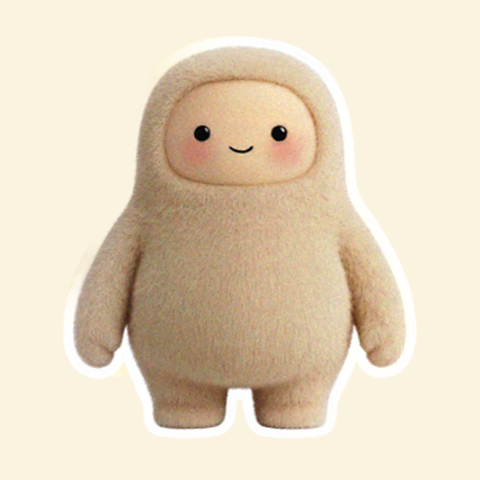
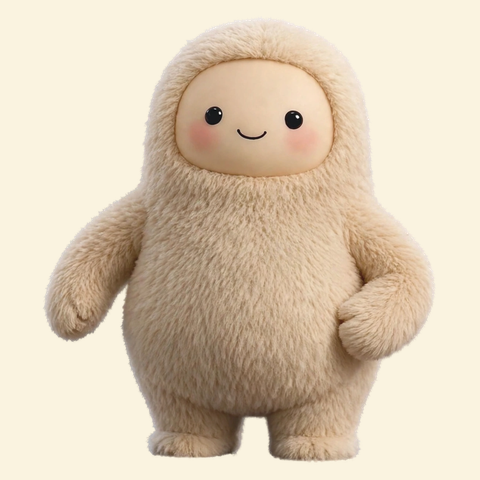
交接文件 HANDOFF.md; 頭像改用無白邊去背母檔 (老吳指示)

diff --git a/HANDOFF.md b/HANDOFF.md
@@ -1,0 +1,74 @@
+# AI寶 專案交接文件（HANDOFF）
+
+最後更新：2026-10-16 深夜（Muse 撰寫）
+讀者：未來接手本專案的 agent 或工程師。本文件自給自足，先讀完再動手。
+
+## 1. 這是什麼
+
+- 專案：把開源專案 LINE.js 改造成華葳集成公司 LINE 群組的「電腦學習小幫手」，名字叫「AI寶」。
+- 委託人：吳治綱（老吳），GitHub 帳號 wuzkkavin。所有重大決策（對外發布、用真帳號、動他的雲端檔案）都要先經他同意。
+- 上游：JS-PACKAGE/LINE.js（作者 YueyuHoshizora，益師傅的學生），Apache License 2.0；核心函式庫 @evex/linejs 釘版 3.4.2，不得擅自升版。
+- Fork：wuzkkavin/LINE.js。main 分支＝上游鏡像（僅多一個 .github/workflows/build-windows.yml，原因見第 6 節）；開發分支＝ai-bao。
+- 本機工作路徑：~/workspace/linejs-helper（origin＝fork，upstream＝原作者 repo）。
+- 規格正本：~/workspace/linejs-test/規格書-v2.md（v2.1，共 13 節）；測試報告：同目錄 第一階段假資料測試報告.md、第二階段假資料體驗版報告.md。
+- 文件備份：Google Drive「Muse 專區／AI寶 LINE 小幫手」資料夾（folder id 1K4DHnEKEUgpDfUGRwVftaZmMpvMDxk9-）。
+
+## 2. 架構定案（不要推翻，除非老吳同意）
+
+- 新功能全部做成 Repo 內獨立的 helper/ 伴隨模組，透過上游既有的機器人接口 /api/ws（WebSocket）連接 LINE.js 核心（127.0.0.1:3789）。
+- 上游檔案零修改（git status 只應出現 helper/、pack/ 與本文件等新增物）。理由：上游持續更新，改上游會讓同步撞車。掛鉤紀錄在 helper/FORK.md（目前為零掛鉤）。
+- 打包在 pack/：Node SEA 單一 exe，啟動器（pack/launcher）以多工模式自我分身成監督者／核心／helper／cli 角色。
+- 資料落點（Windows）：%LOCALAPPDATA%\HwLineHelper（config、session、log、知識庫索引），絕不寫 exe 旁邊。
+
+## 3. 功能規格重點（細節以規格書 v2.1 為準）
+
+- 登入：專用次要 LINE 帳號 QR＋PIN（裝置 ANDROIDSECONDARY）。嚴禁用老吳主帳號。機器人以真人帳號身分在群組回答，群組須先在核心 config.yaml 的 api.chats 白名單內，機器人 Token 用核心 CLI 產生（npm run cli -- token，或 exe 的 --role cli）。
+- 觸發：不用 @ 或 /。設定裡的機器人名字（主名＋別名）出現在訊息任何位置（句首／句中／句尾）＋問句或請求意圖才回（預設「標準」模式；另有寬鬆／嚴格）。名字是設定值、出廠預設「AI寶」，絕不可寫死在程式裡（改名測試必須通過）。同人冷卻 20 秒、每日回答上限可調。
+- AI 供應商：OpenAI／Groq／MiniMax 三家，皆 OpenAI 相容格式共用一套客戶端；設定頁各填 Key＋模型＋測試連線，單選使用中一家。Key 存 Windows 認證管理員（DPAPI 後端在 helper/src/secrets.mjs），設定 JSON 與 log 絕不可出現 Key 明文；API 回應只回末 4 碼。
+- 知識庫：設定頁指定資料夾（內容由老吳保證已脫敏），唯讀；第一版支援 .txt/.md/.csv，切段約 800 字＋BM25 索引（存資料夾外）；公司類問題先查知識庫、答案註明來源檔名，查不到要明說不編造。第二版才做 .pdf/.docx/.xlsx。
+- 防詐騙：本機規則預篩（網址、短網址、高風險詞）命中才送 AI 判讀機率與手法，門檻預設 0.8，超過以 replyTo 在群組警告（文案含「僅供參考」）；支援手動貼訊息問「這是詐騙嗎」；每分鐘上限 10；TypeSafe Jev 僅保留欄位、預設停用。只分析別人的訊息。
+- Log：放資料夾（Windows 為 AppData 下 logs），每日一檔保留 14 天；不記 Key/Token/QR/PIN，不記訊息全文（除錯模式除外）；控制台可下載診斷包 ZIP。
+- 介面：控制台在 127.0.0.1:3790，繁體中文（台灣用語）、粉圓體、深綠＋LINE 綠卡片式；頁尾與「關於」卡必須有版權宣告，原文一字不改：「©Copyright 2026 By 吳治綱 繁體中文化」，同處並列上游出處（JS-PACKAGE/LINE.js、Apache License 2.0）。驗收截圖必須拍到宣告。
+- 成品平台：只出 Windows 版（老吳定版規則）。
+
+## 4. 素材（helper/assets/）
+
+- ai-bao-icon.png：綠色對話泡泡，老吳提供。用途：App/exe 圖示、控制台 Logo、favicon。
+- ai-bao-cutout.png：現行透明母檔（無白邊）。來源：AI 乾淨版（ai-bao-avatar-ai.png，1600×1600）以 rembg（isnet-general-use）去背，1075×1222。
+- ai-bao-avatar.png：現行頭像 480×480（去背母檔＋米白底合成）。控制台狀態卡與日後 LINE 大頭貼用。
+- 備份（不要打包、不要用）：ai-bao-cutout-bordered.png（舊帶白邊版，左邊白邊有缺損，勿用）、ai-bao-cutout-original.png（原照片無白邊擷取版，僅 255×295，解析度低）、ai-bao-avatar-photo.png、ai-bao-avatar-original.png。
+- 原始素材出處：老吳提供的四角色合照與角色原圖在 ~/workspace/user/media_library/；弄正後的原圖在 ~/workspace/linejs-test/ai-bao-original-straightened.png（原圖斜 9.2 度，以眼睛連線量測校正）。
+
+## 5. 目前進度與驗證證據（2026-10-16）
+
+- 階段一（假資料摸底核心）：完成。上游 typecheck 通過、自動測試 207/207。
+- 階段二（helper 體驗版）：完成。helper 測試 13/13（含端到端：FakeProvider 真核心＋本機 AI stub；句尾觸發、改名、知識庫附來源、防詐騙警告、log 無 Key 皆有斷言）。控制台截圖在 helper/screenshots/。
+- 階段三（打包）：VM 內完成。pack 測試 28/28；產出 pack/out/AI寶.exe（103,270,400 bytes，PE32+ x64，基底 Node v24.20.0，icon 與版本資訊已寫入，LegalCopyright 為版權字串，證據 pack/build/build-report.json）。注意：pack/out 與 pack/build、pack/.cache 已被 .gitignore 排除，不進 Git。
+- 雲端 Windows 驗證：2026-10-16 已由老吳核准並啟動，run id 38920095834（workflow build-windows，ref ai-bao）。接手者先用 gh run view 38920095834 --repo wuzkkavin/LINE.js 查結果與下載 artifact（exe、Windows 截圖、打包報告），再判讀：兩個服務 HTTP 200、控制台截圖正常、DPAPI 與認證管理員在 Windows 的實際行為（log 佐證）。若失敗，看該 run 的 job log 修管線，不要宣稱通過。
+- 尚未 commit 到 main 的內容：ai-bao 分支 commit c04adaa（含 helper/、pack/、workflow 副本）。main 只有 workflow 檔 commit 633ecd1（workflow_dispatch 必須存在於預設分支才可被呼叫，這是 GitHub 的限制）。
+
+## 6. 待辦（依序）
+
+1. 判讀雲端驗證 run 38920095834 結果；若全過，下載該次 exe artifact 作為第一個 Windows 實測版，存 Drive「AI寶 LINE 小幫手」資料夾，並向老吳回報（含 Windows 截圖）。
+2. 每次發布/驗證完成後，刪除該次 Actions artifact（老吳既定流程，避免儲存額度累積；Release 與 Drive 備份不受影響）。
+3. 階段四（真帳號實測）：等老吳提供次要帳號並在場掃 QR。先進測試小群驗收（觸發、知識庫、防詐騙、log），老吳點頭才進正式公司群。相關流程：exe 啟動後在控制台操作登入，Token 以 --role cli 產生並填入 helper 設定。
+4. 上游同步機制：老吳要求「上游更新要跟著更新」，但自動同步的授權範圍與檢查頻率尚未拍板（比照 Craft 家族的每日追蹤＋自動更新模式是候選）。未經老吳確認前，只做手動 git fetch upstream 比對並回報，不要自動合併發布。
+5. 知識庫第二版格式（pdf/docx/xlsx）與 Jev 實際串接：未排期，等老吳指示。
+
+## 7. 操作手冊（常用指令）
+
+- 上游測試：Repo 根目錄 npm ci --include=dev；npm run typecheck；npm test（207 項，約 1 分鐘）。
+- helper 測試：cd helper；npm test（13 項，含端到端，約 10 秒）。
+- pack 測試：cd pack；npm test（28 項）。
+- 本機打包（Linux 產 Windows exe）：cd pack；npm ci；node build.mjs --target win（產物 pack/out/AI寶.exe 與 pack/build/build-report.json）。基底 Node 版本跟 VM 的 Node 大版本一致（目前 v24.20.0），.cache 會下載官方 win-x64 node，不要 commit。
+- 雲端驗證：gh workflow run build-windows.yml --repo wuzkkavin/LINE.js --ref ai-bao；gh run watch（workflow 內容正本在 pack/build-windows.yml，.github/workflows/ 是啟用副本，改流程要同步兩處）。
+- helper 開發啟動：先讓核心跑起來並啟用 api 與白名單、產生 Token，再 cd helper；npm start（控制台 127.0.0.1:3790）。環境變數 HELPER_DATA_DIR、HELPER_PORT 可覆寫資料夾與埠。
+
+## 8. 紅線（任何接手者都必須遵守）
+
+- 不用主帳號、不對外公開部署（服務只綁本機）、不主動推播。
+- 密碼、API Key、Token 絕不經對話傳遞、不寫進任何檔案或 log；需要老吳輸入時用安全輸入方式或讓他在設定頁貼上。
+- 未經老吳同意：不 push 到 main（workflow 啟用那次是特例且已記錄）、不建 Release、不刪他的檔案、不用他的名義對外發言或送 PR。
+- 修改上游檔案前先停下來：本專案的定案是零修改；若真有必要，先在 helper/FORK.md 記錄理由並知會老吳。
+- 文件與 UI 一律繁體中文（台灣用語）；交付前截圖自查（字體、版面、版權宣告入鏡）。
+- 驗證不過不要宣稱完成；Windows 相關結論只認雲端 run 或實機證據，不要用 Linux 自測代替。
